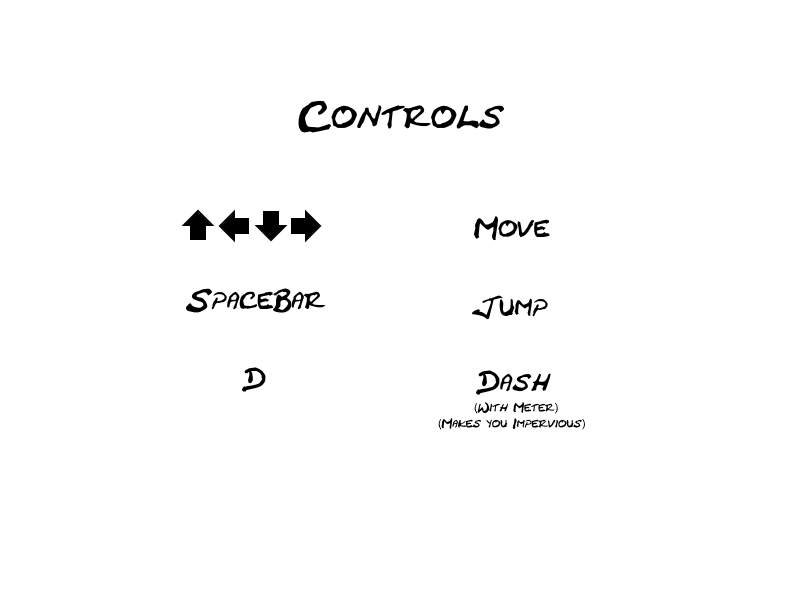
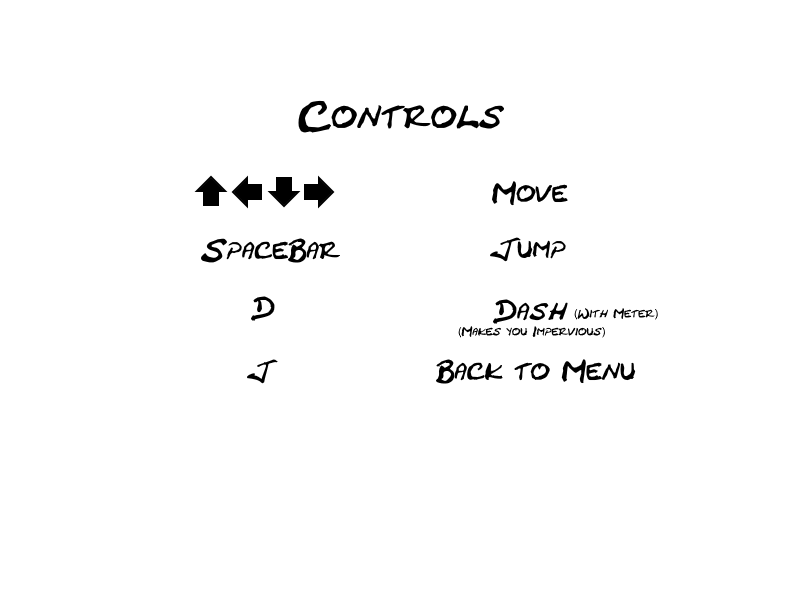
J to return to menu as function and in controls state; changed lava gold time again.

diff --git a/myGame/js/level8.js b/myGame/js/level8.js
@@ -5,7 +5,7 @@ level8 = {
 		this.timeText;
 		this.bronzeTime = 90;
 		this.silverTime = 50;
-		this.goldTime = 35;
+		this.goldTime = 32;
 		this.stars = 0;
 
 		this.music = this.add.audio('bgMusic2');
@@ -92,7 +92,6 @@ level8 = {
 
         function destroyPlayer1(player){
         	if (!invincible){
-        		console.log('destroyPlayer1');
         		this.player.body.x = 128;
         		this.player.body.y = 720;
         		lvl8Map.createFromObjects('Items', 'scroll', 'scrolls', 0, true, false, this.dashScrolls);
@@ -101,7 +100,6 @@ level8 = {
 
         function destroyPlayer2(player){
         	if (!invincible){
-        		console.log('destroyPlayer2');
         		this.player.body.x = 2064;
         		this.player.body.y = 310;
         		lvl8Map.createFromObjects('Items', 'scroll', 'scrolls', 0, true, false, this.dashScrolls);
@@ -110,7 +108,6 @@ level8 = {
 
         function destroyPlayer3(player){
         	if (!invincible){
-        		console.log('destroyPlayer3');
         		this.player.body.x = 1230;
         		this.player.body.y = 310;
         		lvl8Map.createFromObjects('Items', 'scroll', 'scrolls', 0, true, false, this.dashScrolls);
